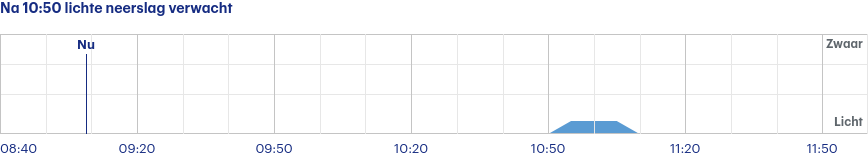
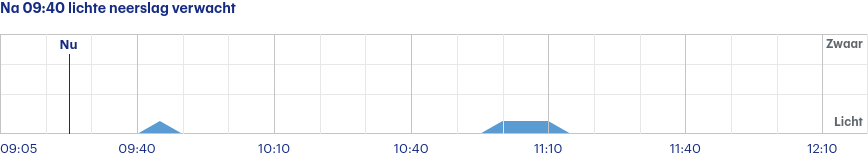
Latest scraping buienradar: Sat Aug 12 07:20:50 UTC 2023

diff --git a/scrapes/buienradar/buienradar-jette-3-uur.md b/scrapes/buienradar/buienradar-jette-3-uur.md
@@ -1,4 +1,4 @@
-Na 10:50 lichte neerslag verwacht
+Na 09:40 lichte neerslag verwacht
 
 ![](buienradar-jette-3-uur.png)
 
